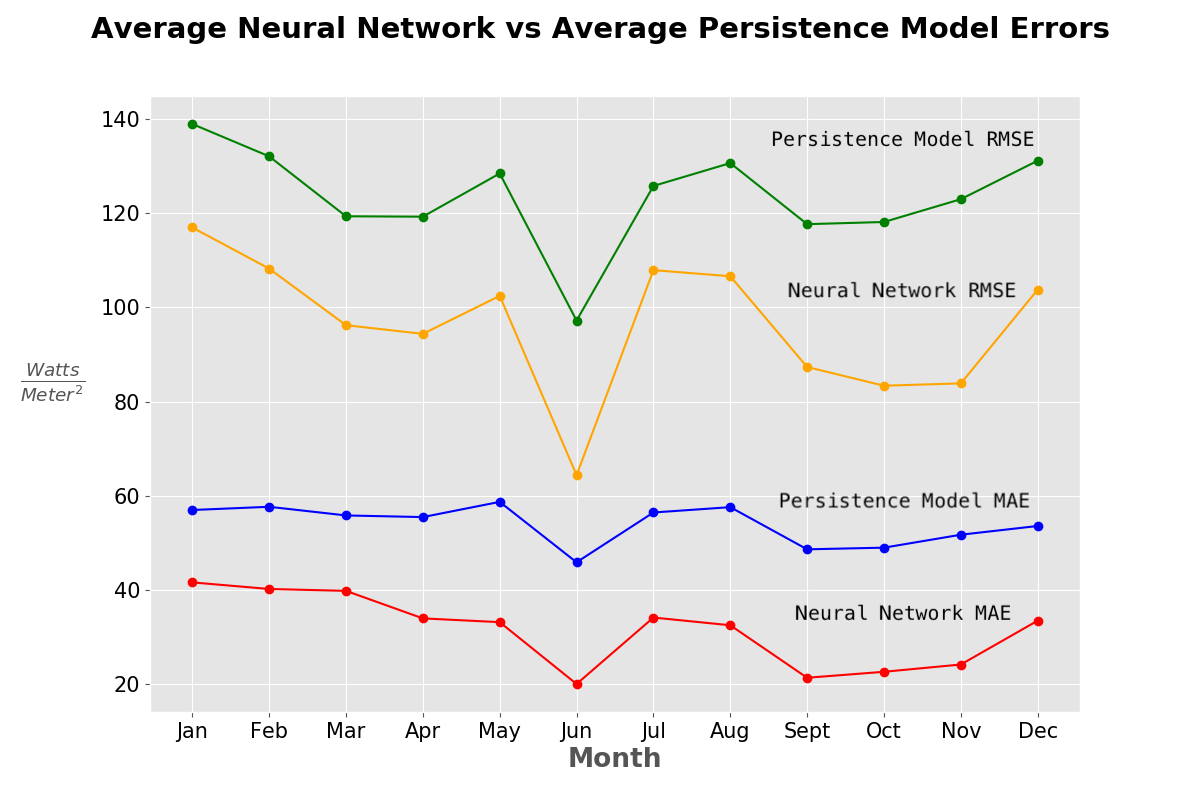
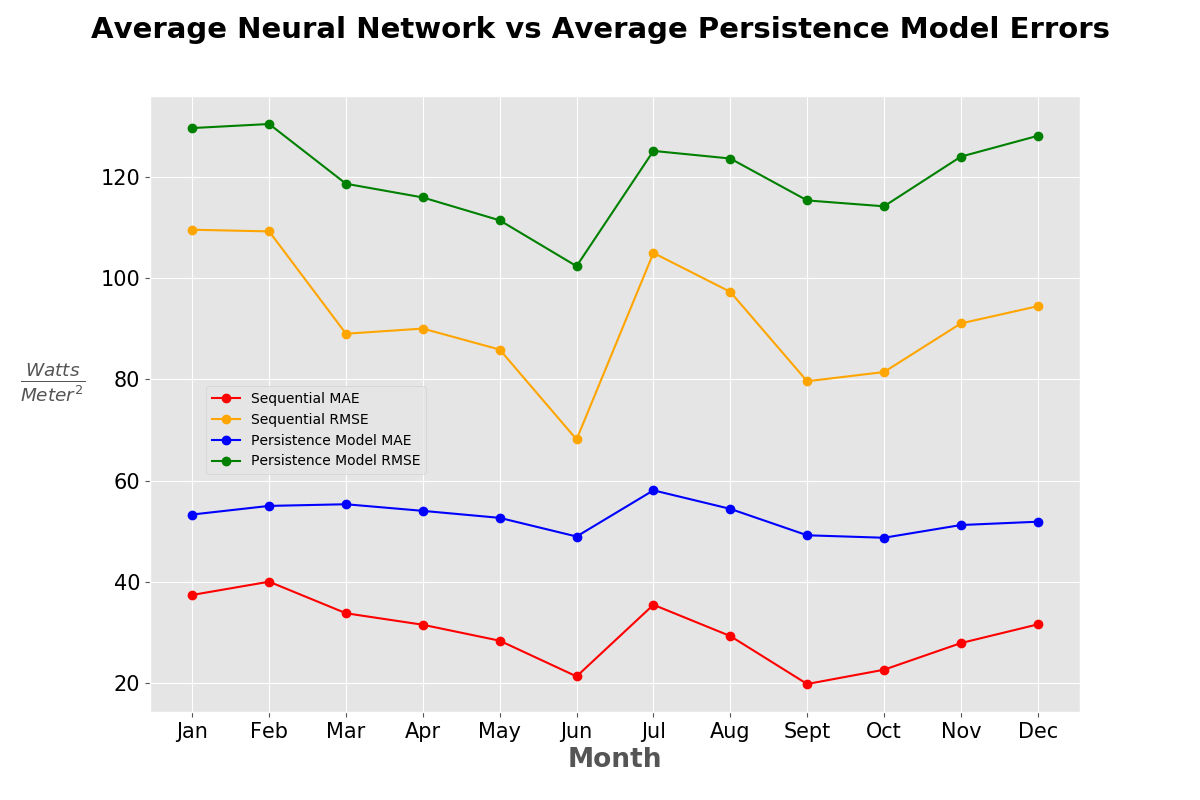
error plots edited: separate MAE and RMSE

diff --git a/src/modeling.py b/src/modeling.py
@@ -1,0 +1,41 @@
+from modeling_base import *
+from sklearn.ensemble import RandomForestRegressor
+from eda import format_nrel_dataframe
+import numpy as np
+from mlp_base import *
+
+
+if __name__ == "__main__":
+    df = format_nrel_dataframe("../data/2003_2016.csv")
+    lag_features = ['Temperature', 'Clearsky DHI', 'Clearsky DNI', 'Clearsky GHI', 'Cloud Type','Dew Point','DHI','DNI','Fill Flag', 'GHI','Relative Humidity','Solar Zenith Angle','Surface Albedo','Pressure','Precipitable Water','Wind Direction','Wind Speed']
+    df = create_lagged_features(df, lag_features, 4, 30)
+    df = create_future_target(df, 'DNI', 1, 30)
+
+    max_year = np.unique(df['Year'].values).max()
+    min_year = np.unique(df['Year'].values).min()
+
+    test_dates = get_random_test_dates(5, max_year, (4, 20), 2)
+
+    rf = RandomForestRegressor()
+    mlp = build_neural_network(len(df.columns) - 3, [10, 40])
+
+    rf_error_dict = iterative_testing(rf, df, 'DNI_T_plus30', test_dates, max_year - min_year, 'months', -1, same=True)
+    mlp_errors_dict = iterative_nn_testing(mlp, df, 'DNI_T_plus30', test_dates, max_year - min_year, 'months', fit_params=NN_dict, same=True)
+
+    mae_errors = {}
+    rmse_errors = {}
+    for k, v in rf_error_dict.items():
+        if "MAE" in k:
+            mae_errors[k] = v
+        elif "RMSE" in k:
+            rmse_errors[k] = v
+
+    for k, v in mlp_errors_dict.items():
+        if "MAE" in k:
+            mae_errors[k] = v
+        elif "RMSE" in k:
+            rmse_errors[k] = v
+
+    error_plot(mae_errors, ['orange','blue','green'], 'Mean Absolute Errors by Model', "Month", r"$\frac{Watts}{Meter^2}$", 0.3, 0.75, "../images/mean_absolute_errors.png")
+
+    error_plot(rmse_errors, ['orange','blue','green'], 'Root Mean Squared Errors by Model', "Month", r"$\frac{Watts}{Meter^2}$", 0.325, 0.15, "../images/root_mean_squared_errors.png")

diff --git a/src/mlp_modeling.py b/src/mlp_modeling.py
@@ -9,13 +9,17 @@ if __name__ == "__main__":
     df = create_lagged_features(df, lag_features, 4, 30)
     df = create_future_target(df, 'DNI', 1, 30)
 
-    test_dates = get_random_test_dates(5, 2016, (4, 20), 2)
+    max_year = np.unique(df['Year'].values).max()
+    min_year = np.unique(df['Year'].values).min()
+
+    test_dates = get_random_test_dates(5, max_year, (4, 20), 2)
 
     mlp = build_neural_network(len(df.columns) - 3, [10, 40])
 
-    mlp_errors_dict = iterative_nn_testing(mlp, df, 'DNI_T_plus30', test_dates, 5, 'months', fit_params=NN_dict, same=True)
+    mlp_errors_dict = iterative_nn_testing(mlp, df, 'DNI_T_plus30', test_dates, max_year - min_year, 'months', fit_params=NN_dict, same=True)
 
-    mlp_errors_dict.pop('date')
-    mlp_errors_dict.pop('training observations')
-    mlp_errors_dict.pop('testing observations')
-    error_plot(mlp_errors_dict, ['red','orange','blue','green'], 'Average Neural Network vs Average Persistence Model Errors', "Month", r"$\frac{Watts}{Meter^2}$", "../images/nn_v_pm_test_errors.png")
+    dates = mlp_errors_dict.pop('date')
+    train_obs = mlp_errors_dict.pop('training observations')
+    test_obs = mlp_errors_dict.pop('testing observations')
+
+    error_plot(mlp_errors_dict, ['red','orange','blue','green'], 'Average Neural Network vs Average Persistence Model Errors', "Month", r"$\frac{Watts}{Meter^2}$", 0.053, 0.375, "../images/nn_v_pm_test_errors.png")

diff --git a/src/rf_modeling.py b/src/rf_modeling.py
@@ -9,11 +9,14 @@ if __name__ == "__main__":
     df = create_lagged_features(df, lag_features, 4, 30)
     df = create_future_target(df, 'DNI', 1, 30)
 
-    test_dates = get_random_test_dates(5, 2016, (4, 20), 2)
+    max_year = np.unique(df['Year'].values).max()
+    min_year = np.unique(df['Year'].values).min()
+
+    test_dates = get_random_test_dates(5, max_year, (4, 20), 2)
 
     rf = RandomForestRegressor()
-    rf_error_dict = iterative_testing(rf, df, 'DNI_T_plus30', test_dates, 5, 'months', -1, same=True)
+    rf_error_dict = iterative_testing(rf, df, 'DNI_T_plus30', test_dates, max_year - min_year, 'months', -1, same=True)
 
     dates = rf_error_dict.pop('date')
 
-    error_plot(rf_error_dict, ['red','orange','blue','green'], 'Average Random Forest vs Average Persistence Model Errors', "Month", r"$\frac{Watts}{Meter^2}$", 0.01, 0.375, "../images/rf_v_pm_test_errors.png")
+    error_plot(rf_error_dict, ['red','orange','blue','green'], 'Average Random Forest vs Average Persistence Model Errors', "Month", r"$\frac{Watts}{Meter^2}$", 0.053, 0.375, "../images/rf_v_pm_test_errors.png")    

diff --git a/src/modeling_base.py b/src/modeling_base.py
@@ -625,7 +625,7 @@ def iterative_testing(model, df, target_col, test_dates, num_units, units, n_job
     return errors
 
 
-def error_plot(error_dict, colors, title, xlab, ylab, savefig=False):
+def error_plot(error_dict, colors, title, xlab, ylab, legend_x_loc, legend_y_loc, savefig=False):
     '''
     Plots the errors of two model against each other
 
@@ -667,6 +667,7 @@ def error_plot(error_dict, colors, title, xlab, ylab, savefig=False):
     ax.tick_params(axis='both', labelcolor='black', labelsize=15.0)
     ax.yaxis.set_label_coords(-0.105,0.5)
     plt.suptitle(title, fontweight='bold', fontsize=21)
+    plt.legend(bbox_to_anchor=(legend_x_loc, legend_y_loc))
     if savefig:
         plt.savefig(savefig)
     else:

diff --git a/src/mlp_base.py b/src/mlp_base.py
@@ -58,7 +58,9 @@ NN_dict = {'epochs': 38,
            'validation_split': 0.2,
 }
 
-test_dates = get_random_test_dates(5, 2016, (4, 20), 2)
+max_year = 2016
+
+test_dates = get_random_test_dates(5, max_year, (4, 20), 2)
 
 def test_nn_model(model, X, y, fit_params=NN_dict):
     '''

diff --git a/src/eda.py b/src/eda.py
@@ -108,6 +108,7 @@ def heatmap(df, filename=False):
     else:
         plt.show()
 
+
 if __name__ == "__main__":
 
     df = format_nrel_dataframe("../data/2003_2016.csv")
